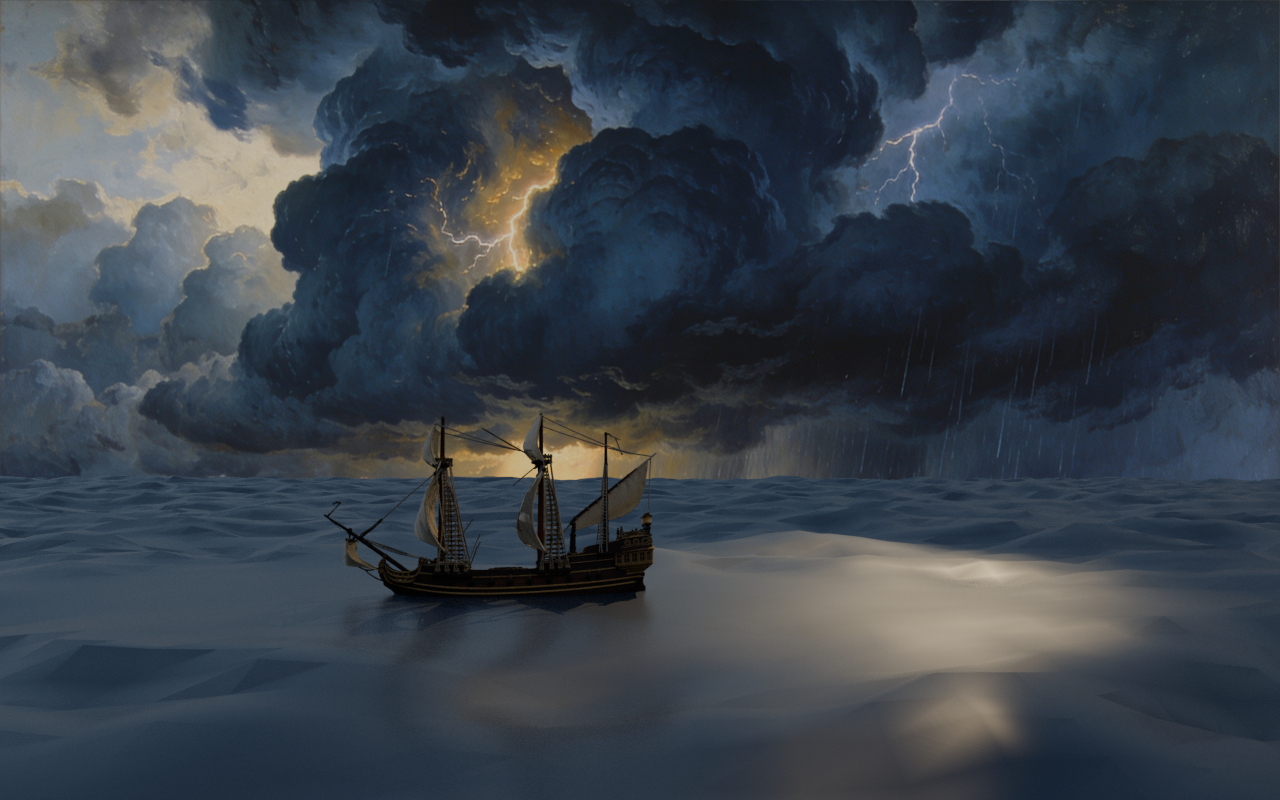
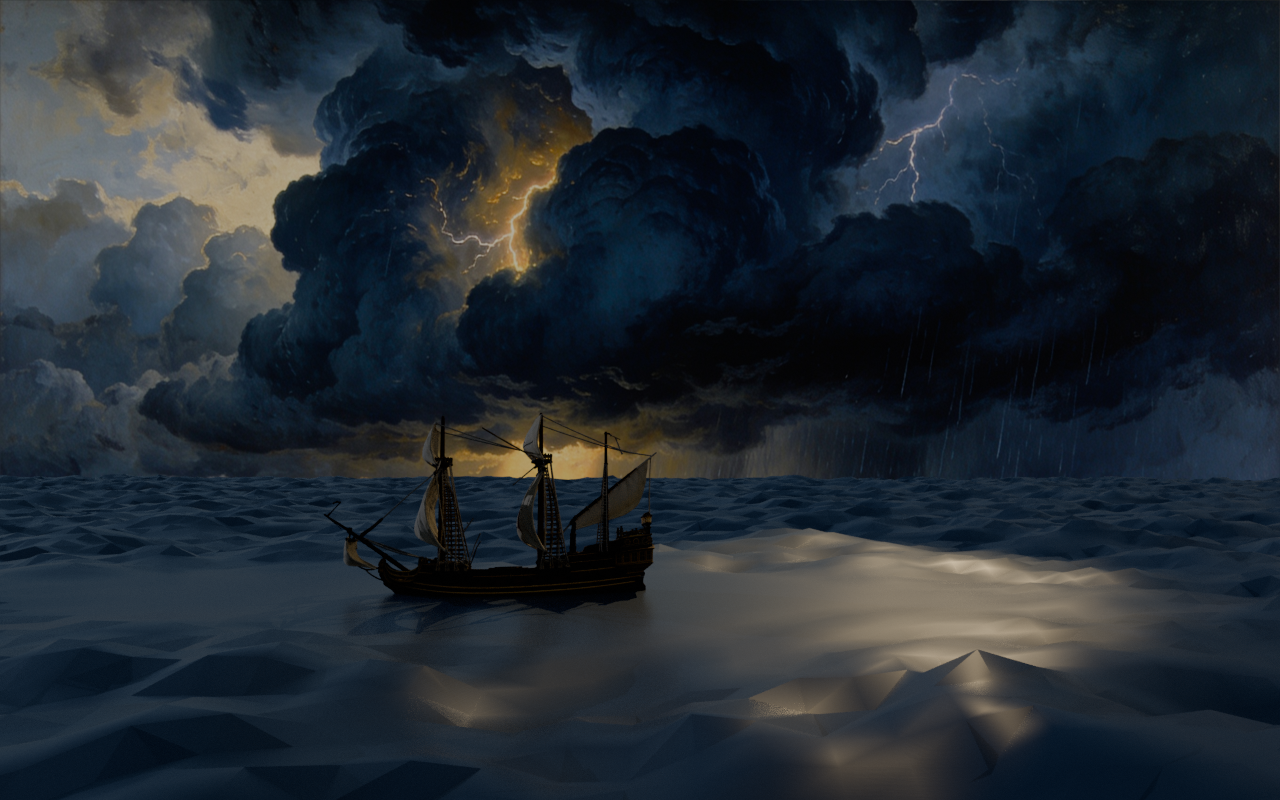
Mar al nivel del cielo: 2 octavas de geometría + espuma de cresta rota + vetas de viento + rizo en bump; luz rasante y revelado AgX Punchy
La octava fina pasó de geometría a bump (faceteaba la malla). Espuma
solo en lo alto de las crestas con rotura de ruido, rugosidad mate en
la espuma, vetas estiradas en dirección del viento. Sol más rasante y
fuerte para que la textura del casco trabaje. Verificado en recortes
al 100% (regla nueva).

diff --git a/3d/build_actos.py b/3d/build_actos.py
@@ -18,30 +18,91 @@ def escena_limpia():
     bpy.ops.wm.read_factory_settings(use_empty=True)
 
 
-def mar(strength, color, rough):
-    bpy.ops.mesh.primitive_grid_add(x_subdivisions=220, y_subdivisions=220, size=320)
+def mar(strength, color, rough, cresta=(0.85, 0.83, 0.76)):
+    """Mar con 3 octavas de geometría (fondo+oleaje+rizado), espuma de cresta
+    rota con ruido y vetas peinadas por el viento. Que el agua aguante el
+    nivel de detalle del cielo pintado."""
+    bpy.ops.mesh.primitive_grid_add(x_subdivisions=300, y_subdivisions=300, size=320)
     o = bpy.context.active_object
     o.name = "Mar"
-    tex = bpy.data.textures.new("olas", "CLOUDS")
-    tex.noise_scale = 7.0
-    mod = o.modifiers.new("Olas", "DISPLACE")
-    mod.texture = tex
-    mod.strength = strength
-    bpy.ops.object.modifier_apply(modifier="Olas")
+    for nombre, esc, st in (("OlasFondo", 7.0, strength),
+                            ("OlasMedias", 2.0, strength * 0.42)):
+        tex = bpy.data.textures.new(nombre, "CLOUDS")
+        tex.noise_scale = esc
+        mod = o.modifiers.new(nombre, "DISPLACE")
+        mod.texture = tex
+        mod.strength = st
+        bpy.ops.object.modifier_apply(modifier=nombre)
     for p in o.data.polygons:
         p.use_smooth = True
+
     m = bpy.data.materials.new("Agua")
     m.use_nodes = True
-    b = m.node_tree.nodes["Principled BSDF"]
-    b.inputs["Base Color"].default_value = (*color, 1)
-    b.inputs["Roughness"].default_value = rough
     nt = m.node_tree
-    ruido = nt.nodes.new("ShaderNodeTexNoise")
-    ruido.inputs["Scale"].default_value = 110
-    bump = nt.nodes.new("ShaderNodeBump")
-    bump.inputs["Strength"].default_value = 0.25
-    nt.links.new(ruido.outputs["Fac"], bump.inputs["Height"])
-    nt.links.new(bump.outputs["Normal"], b.inputs["Normal"])
+    b = nt.nodes["Principled BSDF"]
+    b.inputs["Roughness"].default_value = rough
+
+    geom = nt.nodes.new("ShaderNodeNewGeometry")
+    sep = nt.nodes.new("ShaderNodeSeparateXYZ")
+    nt.links.new(geom.outputs["Position"], sep.inputs[0])
+
+    # color por altura: valles hondos → crestas más claras
+    hRango = nt.nodes.new("ShaderNodeMapRange")
+    hRango.inputs["From Min"].default_value = -strength * 0.9
+    hRango.inputs["From Max"].default_value = strength * 0.9
+    nt.links.new(sep.outputs["Z"], hRango.inputs["Value"])
+    mixCol = nt.nodes.new("ShaderNodeMix")
+    mixCol.data_type = "RGBA"
+    mixCol.inputs[6].default_value = (*color, 1)
+    mixCol.inputs[7].default_value = (color[0] * 3.2, color[1] * 2.8, color[2] * 2.2, 1)
+    nt.links.new(hRango.outputs["Result"], mixCol.inputs["Factor"])
+
+    # espuma: solo en lo alto de las crestas, rota con ruido (no una capa lisa)
+    hEspuma = nt.nodes.new("ShaderNodeMapRange")
+    hEspuma.inputs["From Min"].default_value = strength * 0.45
+    hEspuma.inputs["From Max"].default_value = strength * 1.05
+    nt.links.new(sep.outputs["Z"], hEspuma.inputs["Value"])
+    rotura = nt.nodes.new("ShaderNodeTexNoise")
+    rotura.inputs["Scale"].default_value = 14
+    rotRango = nt.nodes.new("ShaderNodeMapRange")
+    rotRango.inputs["From Min"].default_value = 0.42
+    rotRango.inputs["From Max"].default_value = 0.72
+    nt.links.new(rotura.outputs["Fac"], rotRango.inputs["Value"])
+    fEsp = nt.nodes.new("ShaderNodeMath")
+    fEsp.operation = "MULTIPLY"
+    nt.links.new(hEspuma.outputs["Result"], fEsp.inputs[0])
+    nt.links.new(rotRango.outputs["Result"], fEsp.inputs[1])
+    mixEsp = nt.nodes.new("ShaderNodeMix")
+    mixEsp.data_type = "RGBA"
+    nt.links.new(mixCol.outputs[2], mixEsp.inputs[6])
+    mixEsp.inputs[7].default_value = (*cresta, 1)
+    nt.links.new(fEsp.outputs[0], mixEsp.inputs["Factor"])
+    nt.links.new(mixEsp.outputs[2], b.inputs["Base Color"])
+    # la espuma es mate: sube la rugosidad donde hay espuma
+    rEsp = nt.nodes.new("ShaderNodeMapRange")
+    rEsp.inputs["To Min"].default_value = rough
+    rEsp.inputs["To Max"].default_value = 0.55
+    nt.links.new(fEsp.outputs[0], rEsp.inputs["Value"])
+    nt.links.new(rEsp.outputs["Result"], b.inputs["Roughness"])
+
+    # vetas peinadas por el viento (ruido estirado) + rizo fino, en cadena
+    mapV = nt.nodes.new("ShaderNodeMapping")
+    nt.links.new(geom.outputs["Position"], mapV.inputs["Vector"])
+    mapV.inputs["Scale"].default_value = (0.9, 3.6, 1.0)
+    vetas = nt.nodes.new("ShaderNodeTexNoise")
+    vetas.inputs["Scale"].default_value = 6.5
+    nt.links.new(mapV.outputs["Vector"], vetas.inputs["Vector"])
+    bumpV = nt.nodes.new("ShaderNodeBump")
+    bumpV.inputs["Strength"].default_value = 0.22
+    nt.links.new(vetas.outputs["Fac"], bumpV.inputs["Height"])
+    rizo = nt.nodes.new("ShaderNodeTexNoise")
+    rizo.inputs["Scale"].default_value = 120
+    bumpR = nt.nodes.new("ShaderNodeBump")
+    bumpR.inputs["Strength"].default_value = 0.3
+    nt.links.new(rizo.outputs["Fac"], bumpR.inputs["Height"])
+    nt.links.new(bumpV.outputs["Normal"], bumpR.inputs["Normal"])
+    nt.links.new(bumpR.outputs["Normal"], b.inputs["Normal"])
+
     o.data.materials.append(m)
     return o
 
@@ -118,6 +179,10 @@ def render(nombre, cam_loc, cam_dir, lens=33, mist=(18, 90), mist_color=(0.93, 0
     s = bpy.context.scene
     s.render.engine = "CYCLES"
     s.cycles.samples = 64
+    try:
+        s.view_settings.look = "AgX - Punchy"   # contraste de revelado: el 3D deja de ser plano
+    except Exception:
+        pass
     s.cycles.use_denoising = False
     s.render.resolution_x = 1280
     s.render.resolution_y = 800
@@ -141,8 +206,8 @@ for nombre, (px, py), rz, esc in (("NaoLider", (0, 10), 196, 0),
                                   ("NaoAla2", (16, 36), 190, -2)):
     nivel = aplana(m2, px, py)
     nao(nombre, (px, py, nivel + 2.65), rz, escora=esc)
-mundo("matte_atardecer.jpg", 1.0, (1.0, 0.66, 0.34), 3.2,
-      (math.radians(75), 0, math.radians(-150)))
+mundo("matte_atardecer.jpg", 1.0, (1.0, 0.62, 0.3), 4.4,
+      (math.radians(81), 0, math.radians(-150)))
 render("acto2_flota.png", (3, -24, 4.2), (-1, 30, 1.0), lens=31, mist=(25, 110))
 print("ACTO2_OK")
 
@@ -151,8 +216,8 @@ escena_limpia()
 m4 = mar(2.6, (0.025, 0.04, 0.07), 0.32)
 nivel4 = aplana(m4, -2, 14, rx=12.0, ry=5.5)
 nao("NaoTormenta", (-2, 14, nivel4 + 2.55), 188, escora=6)
-mundo("matte_tormenta.jpg", 0.22, (0.6, 0.68, 0.9), 1.1,
-      (math.radians(70), 0, math.radians(-120)))
+mundo("matte_tormenta.jpg", 0.22, (0.65, 0.72, 0.95), 1.6,
+      (math.radians(78), 0, math.radians(-120)))
 # el haz dorado del matte toca el agua tras la nao
 foco = bpy.data.objects.new("Haz", bpy.data.lights.new("Haz", "SPOT"))
 foco.data.energy = 220000
